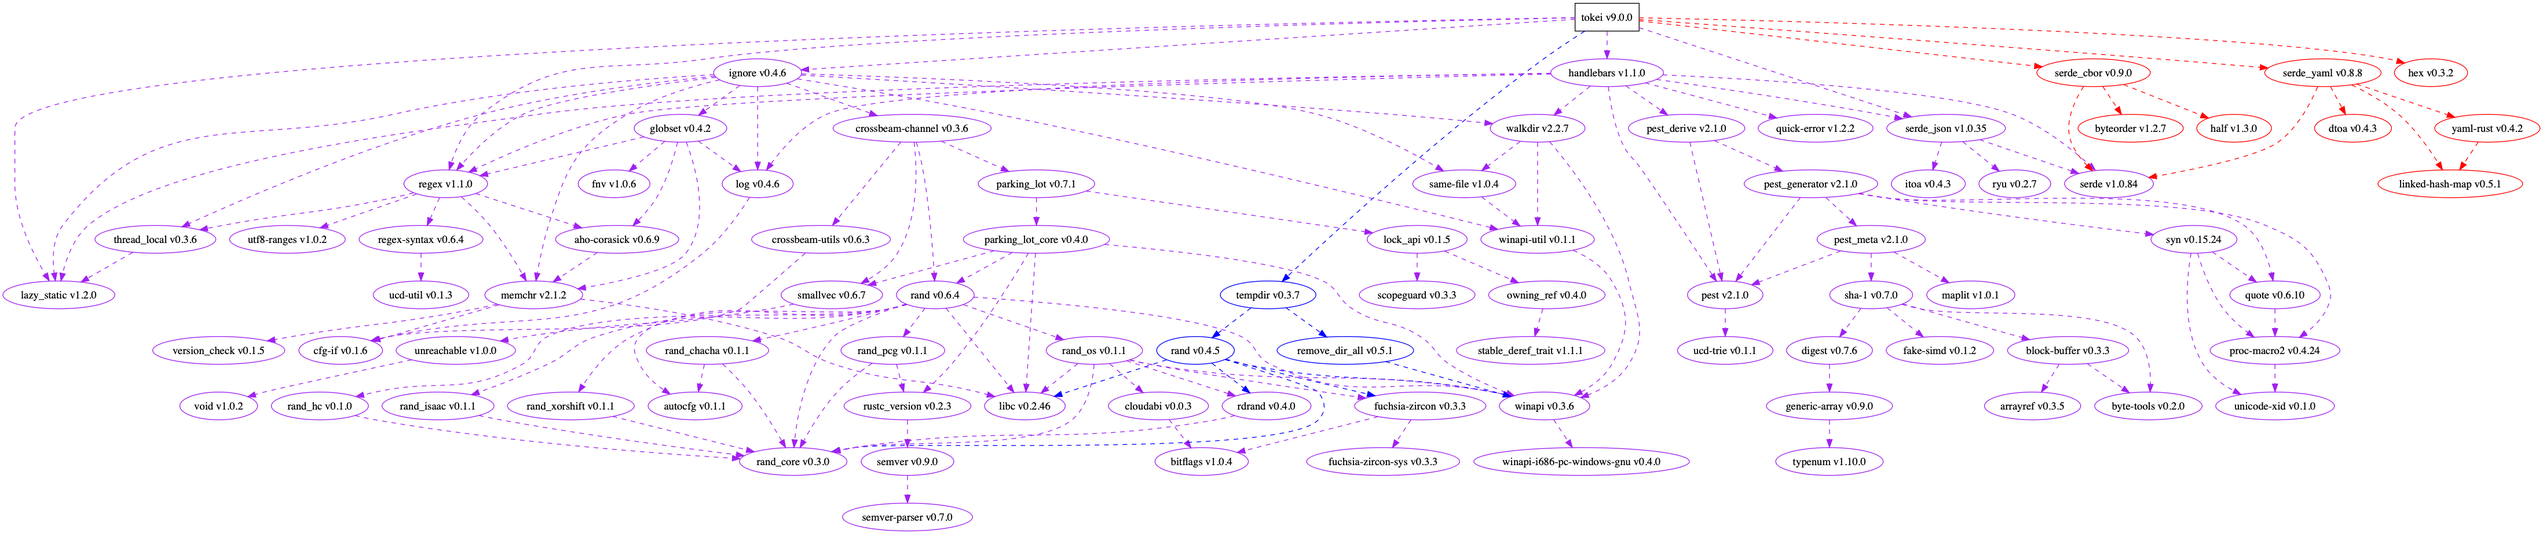
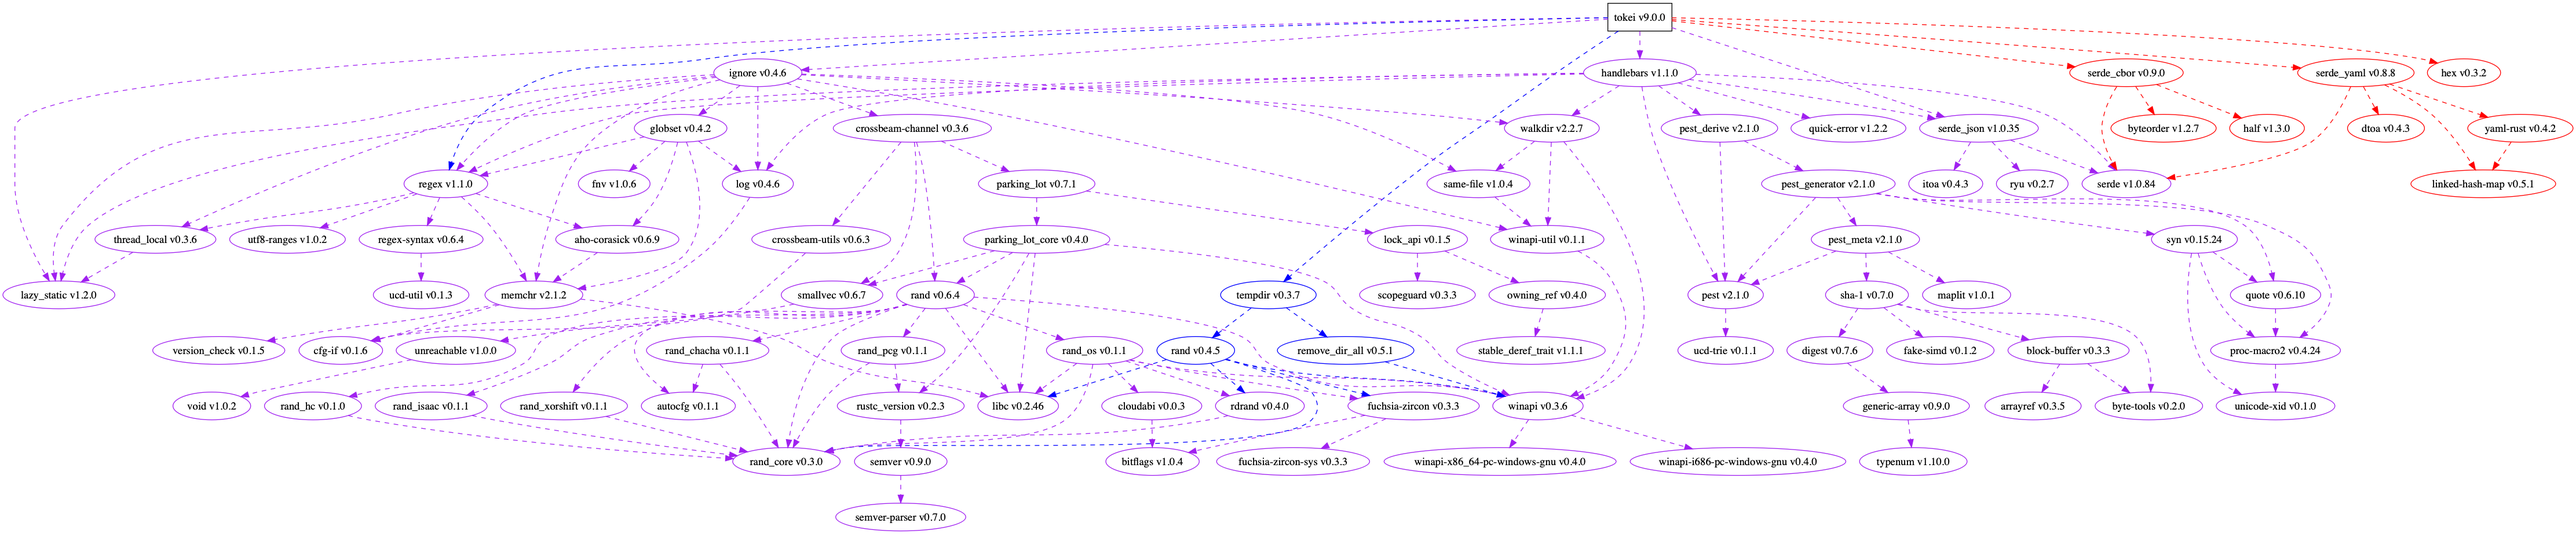
fix a bug where root dependency kinds were being overwritten

diff --git a/src/graph.rs b/src/graph.rs
@@ -1,6 +1,7 @@
 use crate::config::Config;
-use crate::dep::{DeclaredDep, DepKind, ResolvedDep};
+use crate::dep::{DepKind, ResolvedDep};
 use crate::error::CliResult;
+use crate::project::DeclaredDepsMap;
 use std::collections::HashMap;
 use std::fmt;
 use std::io::{self, Write};
@@ -15,23 +16,30 @@ impl Edge {
         &self,
         w: &mut W,
         dg: &DepGraph,
-        root_deps: &[DeclaredDep],
+        root_deps_map: &DeclaredDepsMap,
     ) -> io::Result<()> {
-        use crate::dep::DepKind::{Build, Dev, Optional, Regular};
+        use crate::dep::DepKind::{Build, Dev, Optional, Regular, Unknown};
 
         let parent = dg.get(self.0).unwrap().kind();
         let child_dep = dg.get(self.1).unwrap();
 
-        // Special case: always color edge from root to root dep by its alternate dependency kind if
-        // it's not also a regular dep of root. Otherwise, the root dep could also be a dep of a
-        // regular dep which will cause the root -> root dep edge to be regular, which is misleading
-        // as it is not regular in Cargo.toml.
-        let child = if self.0 == 0
-            && !root_deps
-                .iter()
-                .any(|root_dep| root_dep.name == child_dep.name && root_dep.kind == Regular)
-        {
-            child_dep.alternate_kind()
+        // Special case: always color edge from root to root dep by its actual root dependency kind.
+        // Otherwise, the root dep could also be a dep of a regular dep which will cause the root ->
+        // root dep edge to appear regular, which is misleading as it is not regular in Cargo.toml.
+        let child = if self.0 == 0 {
+            let kinds = root_deps_map.get(&child_dep.name).unwrap();
+
+            if kinds.contains(&Regular) {
+                Regular
+            } else if kinds.contains(&Build) {
+                Build
+            } else if kinds.contains(&Dev) {
+                Dev
+            } else if kinds.contains(&Optional) {
+                Optional
+            } else {
+                Unknown
+            }
         } else {
             child_dep.kind()
         };
@@ -72,12 +80,7 @@ impl DepGraph {
     }
 
     /// Sets the kind of each dependency based on how the dependencies are declared in the manifest.
-    pub fn set_resolved_kind(&mut self, declared_deps: &[DeclaredDep]) {
-        let declared_deps_map = declared_deps
-            .iter()
-            .map(|dd| (&*dd.name, dd.kind))
-            .collect::<HashMap<_, _>>();
-
+    pub fn set_resolved_kind(&mut self, declared_deps_map: &HashMap<String, Vec<DepKind>>) {
         self.nodes[0].is_regular = true;
 
         // Make sure to process edges from the root node first.
@@ -91,13 +94,15 @@ impl DepGraph {
                 if ed.0 == 0 {
                     // If this is an edge from the root node,
                     // set the kind based on how the dependency is declared in the manifest file.
-                    if let Some(kind) = declared_deps_map.get(&*self.nodes[ed.1].name) {
-                        match *kind {
-                            DepKind::Regular => self.nodes[ed.1].is_regular = true,
-                            DepKind::Build => self.nodes[ed.1].is_build = true,
-                            DepKind::Dev => self.nodes[ed.1].is_dev = true,
-                            DepKind::Optional => self.nodes[ed.1].is_optional = true,
-                            _ => (),
+                    if let Some(kinds) = declared_deps_map.get(&*self.nodes[ed.1].name) {
+                        for kind in kinds {
+                            match *kind {
+                                DepKind::Regular => self.nodes[ed.1].is_regular = true,
+                                DepKind::Build => self.nodes[ed.1].is_build = true,
+                                DepKind::Dev => self.nodes[ed.1].is_dev = true,
+                                DepKind::Optional => self.nodes[ed.1].is_optional = true,
+                                _ => (),
+                            }
                         }
                     }
                 } else {
@@ -345,12 +350,13 @@ impl DepGraph {
     pub fn render_to<W: Write>(
         mut self,
         output: &mut W,
-        root_deps: &[DeclaredDep],
+        root_deps_map: &DeclaredDepsMap,
     ) -> CliResult<()> {
         self.edges.sort();
         self.edges.dedup();
         self.remove_orphans();
         self.remove_self_pointing();
+
         writeln!(output, "digraph dependencies {{")?;
         for (i, dep) in self.nodes.iter().enumerate() {
             write!(output, "\tN{}", i)?;
@@ -358,9 +364,10 @@ impl DepGraph {
         }
         for ed in &self.edges {
             write!(output, "\t{}", ed)?;
-            ed.label(output, &self, root_deps)?;
+            ed.label(output, &self, root_deps_map)?;
         }
         writeln!(output, "}}")?;
+
         Ok(())
     }
 }

diff --git a/src/project.rs b/src/project.rs
@@ -3,8 +3,11 @@ use crate::dep::{DeclaredDep, DepKind};
 use crate::error::{CliError, CliResult};
 use crate::graph::DepGraph;
 use crate::util;
+use std::collections::HashMap;
 use std::path::PathBuf;
 use toml::Value;
+
+pub type DeclaredDepsMap = HashMap<String, Vec<DepKind>>;
 
 #[derive(Debug)]
 pub struct Project {
@@ -20,7 +23,7 @@ impl Project {
         self,
         manifest_path: PathBuf,
         lock_path: PathBuf,
-    ) -> CliResult<(DepGraph, Vec<DeclaredDep>)> {
+    ) -> CliResult<(DepGraph, DeclaredDepsMap)> {
         let (root_deps, root_name, root_version) = self.parse_root_deps(&manifest_path)?;
 
         let mut dg = self.parse_lock_file(lock_path, &root_deps, &root_name, &root_version)?;
@@ -30,14 +33,21 @@ impl Project {
             return Err(CliError::Toml("Missing name or version".into()));
         }
 
+        let mut root_deps_map = HashMap::new();
+        for dep in root_deps.iter() {
+            let (name, kind) = (dep.name.clone(), dep.kind);
+            let kinds: &mut Vec<DepKind> = root_deps_map.entry(name).or_insert_with(|| vec![]);
+            kinds.push(kind);
+        }
+
         // Set the kind of dependency on each dep.
-        dg.set_resolved_kind(&root_deps);
+        dg.set_resolved_kind(&root_deps_map);
 
         if !self.cfg.include_vers {
             dg.show_version_on_duplicates();
         }
 
-        Ok((dg, root_deps))
+        Ok((dg, root_deps_map))
     }
 
     /// Builds a list of the dependencies declared in the manifest file.

diff --git a/src/main.rs b/src/main.rs
@@ -86,19 +86,19 @@ fn execute(cfg: Config) -> CliResult<()> {
     // Graph the project.
     let dot_file = cfg.dot_file.clone();
     let project = Project::with_config(cfg)?;
-    let (graph, root_deps) = project.graph(manifest_path, lock_path)?;
+    let (graph, root_deps_map) = project.graph(manifest_path, lock_path)?;
 
     // Render the dot file.
     match dot_file {
         None => {
             let o = io::stdout();
             let mut bw = BufWriter::new(o.lock());
-            graph.render_to(&mut bw, &root_deps)
+            graph.render_to(&mut bw, &root_deps_map)
         }
         Some(file) => {
             let o = File::create(&Path::new(&file)).expect("Failed to create file");
             let mut bw = BufWriter::new(o);
-            graph.render_to(&mut bw, &root_deps)
+            graph.render_to(&mut bw, &root_deps_map)
         }
     }
 }

diff --git a/src/dep.rs b/src/dep.rs
@@ -62,18 +62,6 @@ impl ResolvedDep {
         }
     }
 
-    pub fn alternate_kind(&self) -> DepKind {
-        if self.is_build {
-            DepKind::Build
-        } else if self.is_dev {
-            DepKind::Dev
-        } else if self.is_optional {
-            DepKind::Optional
-        } else {
-            DepKind::Unknown
-        }
-    }
-
     pub fn label<W: Write>(&self, w: &mut W, cfg: &Config, i: usize) -> Result<()> {
         let name = if self.force_write_ver || cfg.include_vers {
             format!("{} v{}", self.name, self.ver)
